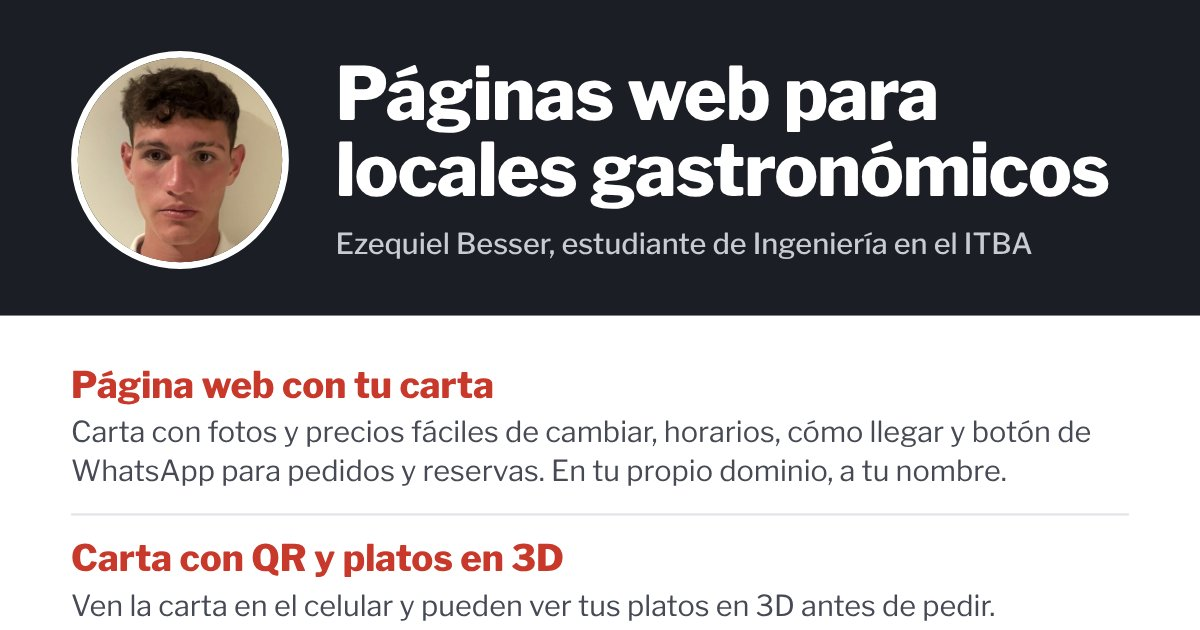
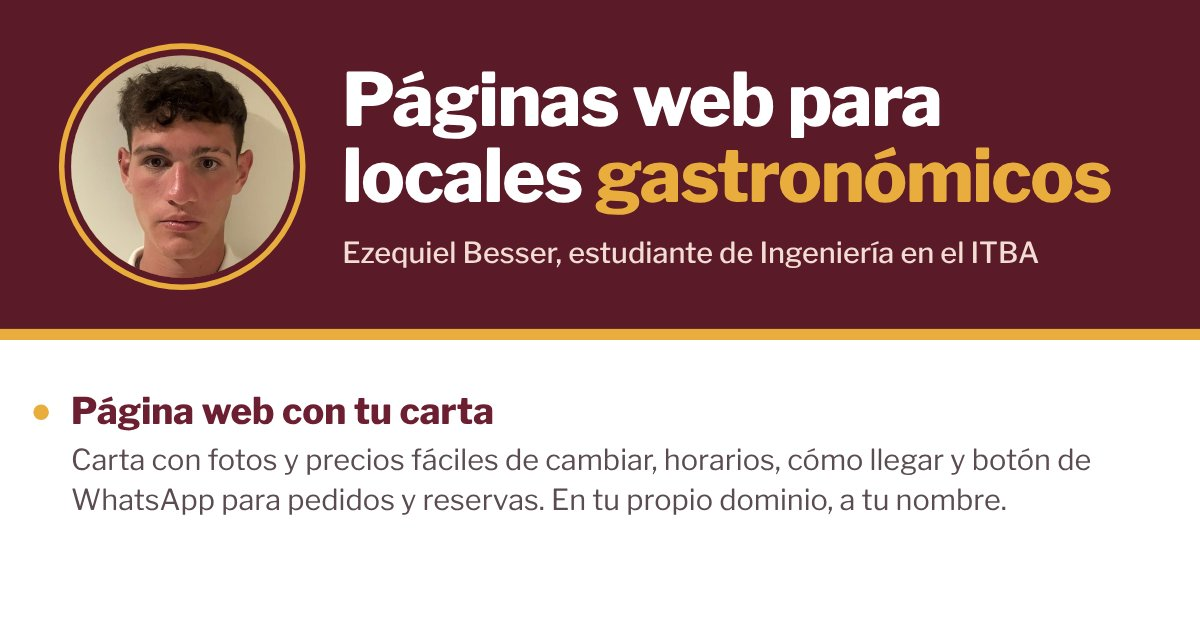
Flyer con colores de cantina: vino y mostaza
Cabecera vino con «gastronómicos» en mostaza, aro mostaza en la foto,
viñetas y franja mostaza, títulos en vino y la banda del WhatsApp en
mostaza. La vista previa del link termina limpia después del primer
trabajo.

Claude-Session: https://claude.ai/code/session_01Yb4EGLZtZgQK7kZLUGyvXu

diff --git a/flyer/index.html b/flyer/index.html
@@ -15,9 +15,10 @@
 <link rel="stylesheet" href="https://fonts.googleapis.com/css2?family=Libre+Franklin:wght@400;500;700;800&display=swap">
 <style>
   /* Flyer común y claro: arriba quién soy, al medio qué incluye cada trabajo, abajo cómo escribirme.
-     1080×1440 (3:4, como una foto de celular) para que WhatsApp lo muestre entero en el chat. */
+     Colores de cantina: vino y mostaza. 1080×1440 (3:4, como una foto de celular) para que WhatsApp lo muestre entero. */
   :root{
-    --oscuro:#1b1e25; --texto:#22252c; --texto-2:#464a54; --linea:#e3e4e8; --rojo:#c8392b;
+    --fondo-cab:#5a1a28; --titulos:#6b1f30; --acento:#e9ad3e; --sobre-acento:#4a1420;
+    --texto:#2a2124; --texto-2:#5a4c51; --linea:#efe5e1; --suave:#f3dcd3;
     --f:"Libre Franklin",system-ui,sans-serif;
   }
   *{box-sizing:border-box;margin:0;padding:0}
@@ -27,27 +28,29 @@
   .hoja{width:1080px;height:1440px;margin:0 auto;overflow:hidden;background:#fff;display:flex;flex-direction:column}
   @media screen and (min-width:1110px){.hoja{margin:24px auto;box-shadow:0 2px 14px rgba(0,0,0,.18)}}
 
-  .cabeza{background:var(--oscuro);color:#fff;display:flex;align-items:center;gap:42px;padding:46px 64px 42px}
-  .foto{flex:0 0 auto;width:196px;height:196px;border-radius:50%;overflow:hidden;border:6px solid #fff}
+  .cabeza{background:var(--fondo-cab);color:#fff;display:flex;align-items:center;gap:44px;padding:50px 64px 46px;border-bottom:10px solid var(--acento)}
+  .foto{flex:0 0 auto;width:200px;height:200px;border-radius:50%;overflow:hidden;box-shadow:0 0 0 6px var(--fondo-cab),0 0 0 11px var(--acento)}
   .foto img{width:100%;height:100%;object-fit:cover;display:block;transform:scale(1.04)}
-  h1{font-weight:800;font-size:66px;line-height:1.03;letter-spacing:-.015em}
-  .quien{font-weight:500;font-size:26px;line-height:1.3;color:#c8cbd2;margin-top:16px}
+  h1{font-weight:800;font-size:66px;line-height:1.04;letter-spacing:-.018em}
+  h1 em{font-style:normal;color:var(--acento)}
+  .quien{font-weight:500;font-size:26px;line-height:1.3;color:var(--suave);margin-top:18px}
 
-  .cuerpo{flex:1;padding:40px 64px 0;overflow:hidden}
+  .cuerpo{flex:1;padding:44px 64px 0;overflow:hidden}
   .servicios{list-style:none}
-  .servicios li{padding:20px 0;border-top:2px solid var(--linea)}
-  .servicios li:first-child{border-top:0;padding-top:4px}
-  .servicios h2{font-weight:800;font-size:33px;line-height:1.15;color:var(--rojo)}
-  .servicios p{font-size:26px;line-height:1.36;color:var(--texto-2);margin-top:5px;text-wrap:pretty}
-  .tambien{font-size:26px;line-height:1.36;color:var(--texto-2);padding-top:18px;border-top:2px solid var(--linea)}
-  .tambien b{font-weight:700;color:var(--texto)}
+  .servicios li{padding:20px 0;border-top:2px solid var(--linea);position:relative}
+  .servicios li:first-child{border-top:0;padding-top:2px}
+  .servicios h2{font-weight:800;font-size:33px;line-height:1.15;color:var(--titulos);position:relative}
+  .servicios h2::before{content:"";position:absolute;left:-34px;top:.36em;width:14px;height:14px;border-radius:50%;background:var(--acento)}
+  .servicios p{font-size:26px;line-height:1.38;color:var(--texto-2);margin-top:6px;text-wrap:pretty}
+  .tambien{font-size:26px;line-height:1.38;color:var(--texto-2);padding-top:18px;border-top:2px solid var(--linea)}
+  .tambien b{font-weight:700;color:var(--titulos)}
 
-  .pie{background:var(--rojo);color:#fff;padding:30px 64px 36px}
+  .pie{background:var(--acento);color:var(--sobre-acento);padding:32px 64px 38px}
   .muestra{font-weight:700;font-size:31px;line-height:1.25}
-  .tel{font-weight:800;font-size:74px;line-height:1;letter-spacing:-.01em;margin-top:12px}
+  .tel{font-weight:800;font-size:76px;line-height:1;letter-spacing:-.012em;margin-top:12px}
   .tel span{font-weight:600;font-size:36px;letter-spacing:0;margin-right:16px}
   .tel a{color:inherit;text-decoration:none}
-  .zona{font-size:25px;line-height:1.3;margin-top:10px;color:rgba(255,255,255,.9)}
+  .zona{font-weight:500;font-size:25px;line-height:1.3;margin-top:10px;opacity:.85}
 </style>
 </head>
 <body>
@@ -55,7 +58,7 @@
   <header class="cabeza">
     <div class="foto"><img src="foto.jpg" alt="Ezequiel Besser" width="196" height="196"></div>
     <div>
-      <h1>Páginas web para locales gastronómicos</h1>
+      <h1>Páginas web para locales <em>gastronómicos</em></h1>
       <p class="quien">Ezequiel Besser, estudiante de Ingeniería en el ITBA</p>
     </div>
   </header>

diff --git a/flyer/generar.js b/flyer/generar.js
@@ -34,6 +34,7 @@ const W = 1080, H = 1440;
   const og = await b.newPage({ viewport: { width: W, height: H }, deviceScaleFactor: 1200 / W });
   await og.goto(HTML, { waitUntil: 'networkidle' });
   await og.evaluate(() => document.fonts.ready);
+  await og.addStyleTag({ content: '.servicios li:nth-child(n+2),.tambien{visibility:hidden}' }); // que termine limpio después del primer trabajo
   await og.screenshot({ path: path.join(DIR, 'og.jpg'), type: 'jpeg', quality: 85, clip: { x: 0, y: 0, width: W, height: 567 } });
 
   await b.close();

diff --git a/creador/diseno/identidades-usadas.md b/creador/diseno/identidades-usadas.md
@@ -9,4 +9,4 @@ Una fila por cada web que hacemos, para que ningún cliente se parezca a otro. A
 | 2026-11 | Papel Nort (Librerías Koruya, cinco sucursales en zona norte) | surtida, práctica, de zona norte | óxido #c0542a, amarillo lápiz #f2d533 y grafito #161616 (su logo: el búho que es pin y punta de lápiz) | Baloo 2 + Jost | búho y palomas en el cable (de su banner), lápiz HB con las sucursales, caja de 10 lápices de colores con los rubros, horario de cuaderno escolar, croquis en hoja cuadriculada |
 | 2026-11 | Bulonera Tres Hilos (muestra inventada, Munro) | técnica, rápida, de mostrador | pavonado #17191b, zinc #8d969c y el dorado del zincado bicromatado #d9a514 (las piezas mismas) | Big Shoulders Display + Work Sans + Red Hat Mono | peine de roscas (los rubros son sus hojas), escala de calibre, lista de precios por medida |
 | 2026-11 | Talleres «IA para tu comercio» (propio, de Ezequiel) | práctico, paciente, de barrio | verde pizarra #22332b, marco de madera #7a4f27, tiza #f2f0e8 y tiza amarilla #f0cf62 (el pizarrón del aula y del comercio; el dorado de su página de clases) | Cabin Sketch (solo títulos) + Atkinson Hyperlegible | pizarrón con marco de madera y el programa escrito en tiza |
-| 2026-11 | Flyer para locales gastronómicos (propio, de Ezequiel) | claro, directo, informativo | banda oscura #1b1e25 con la foto, títulos y banda del WhatsApp en rojo #c8392b, fondo blanco | Libre Franklin (de Impallari, Rosario) | ninguno a propósito: Ezequiel lo pidió «normal», con lo que incluye cada trabajo |
+| 2026-11 | Flyer para locales gastronómicos (propio, de Ezequiel) | claro, directo, cálido | vino #5a1a28 (cabecera y títulos) y mostaza #e9ad3e (aro de la foto, viñetas, franja y banda del WhatsApp) sobre blanco: colores de cantina | Libre Franklin (de Impallari, Rosario) | ninguno a propósito: Ezequiel lo pidió «normal», con lo que incluye cada trabajo |
